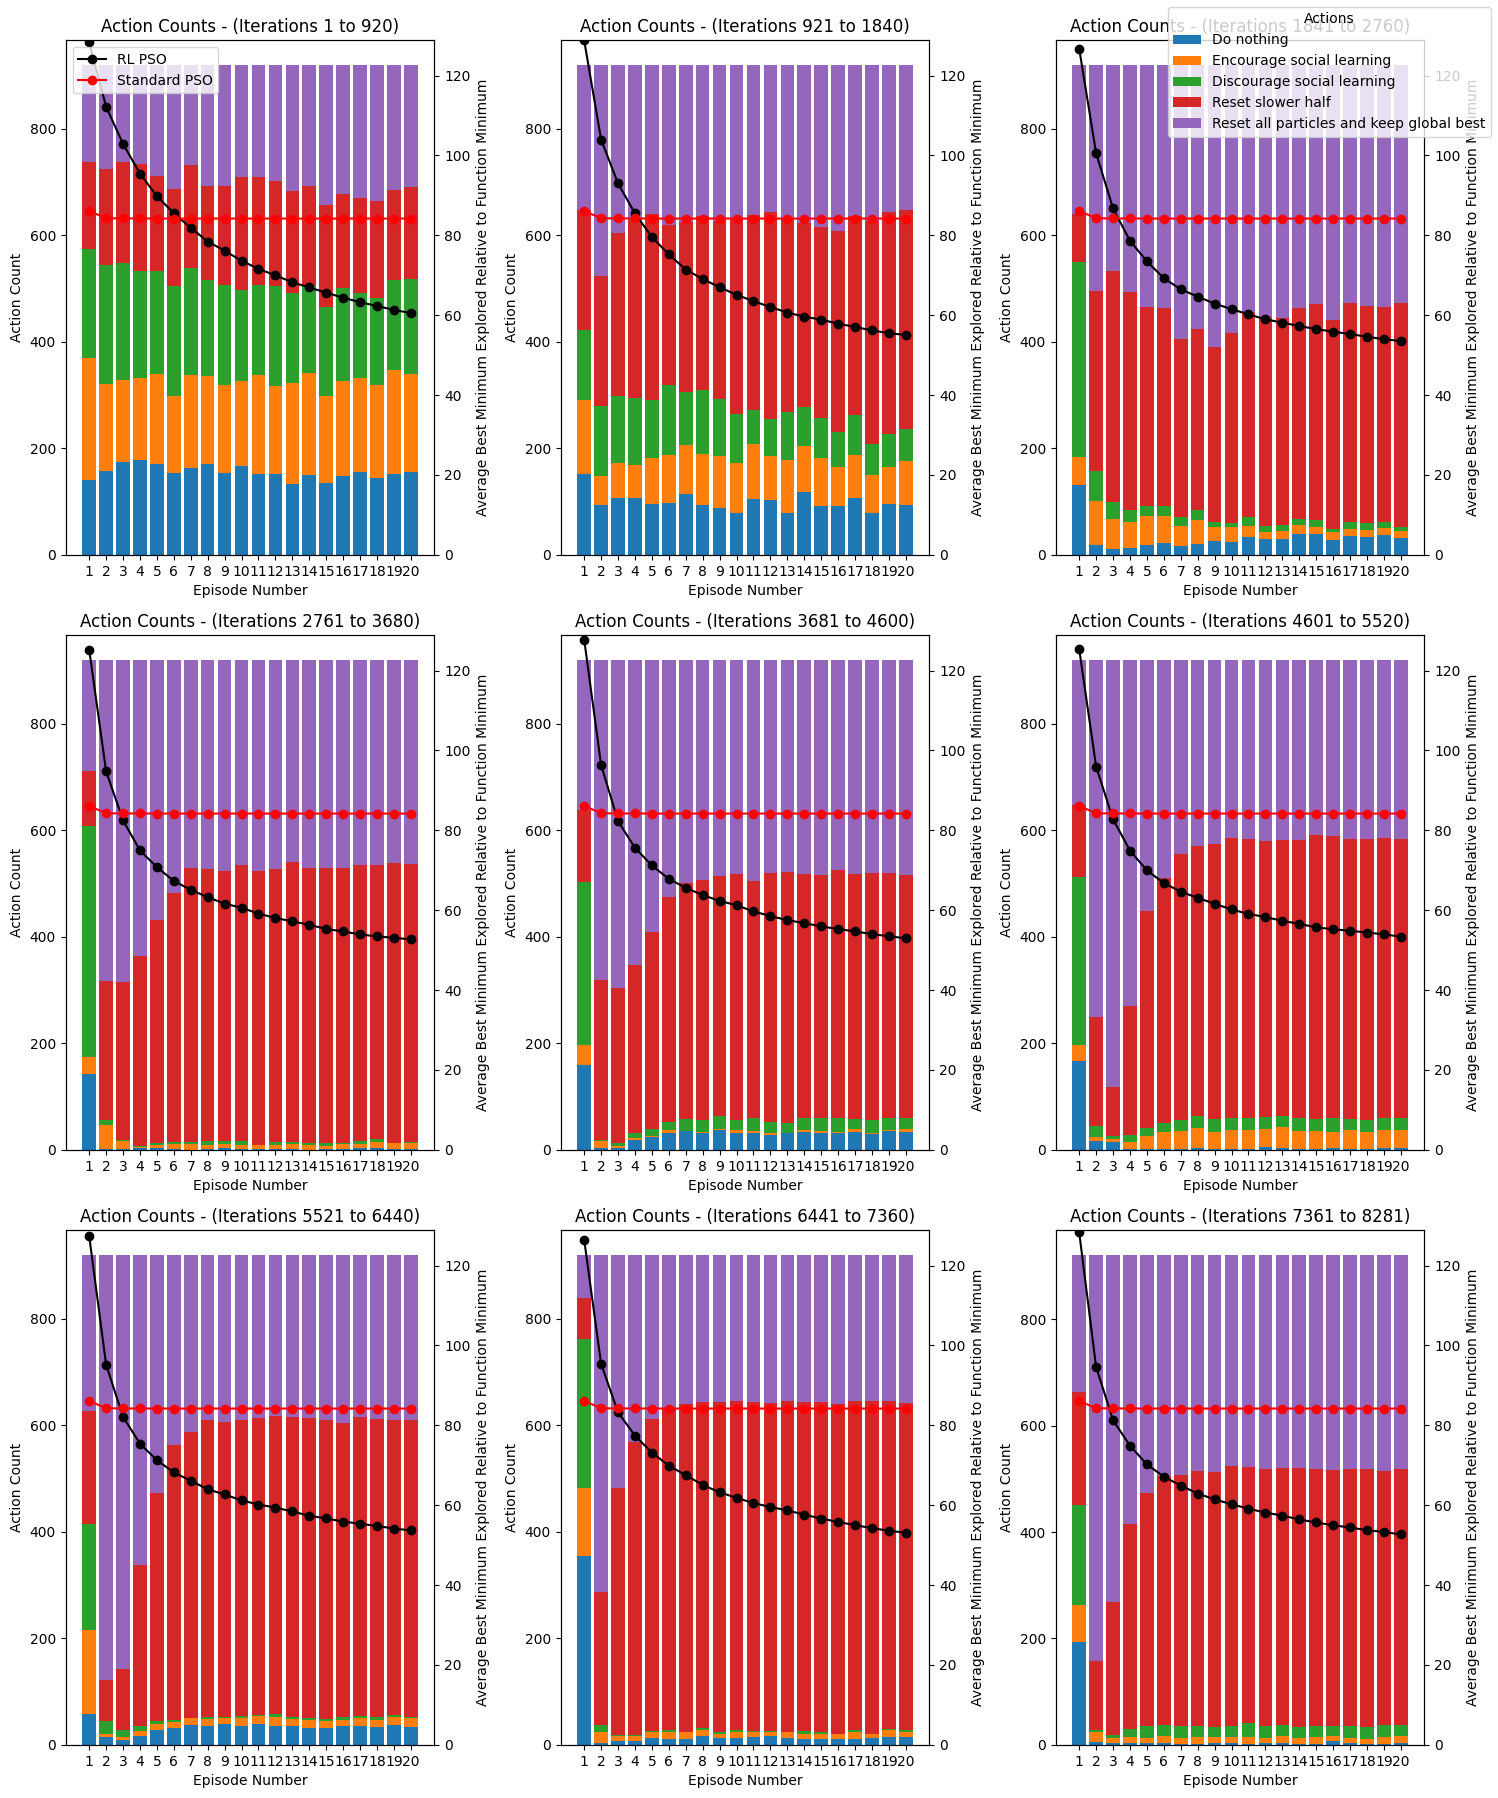
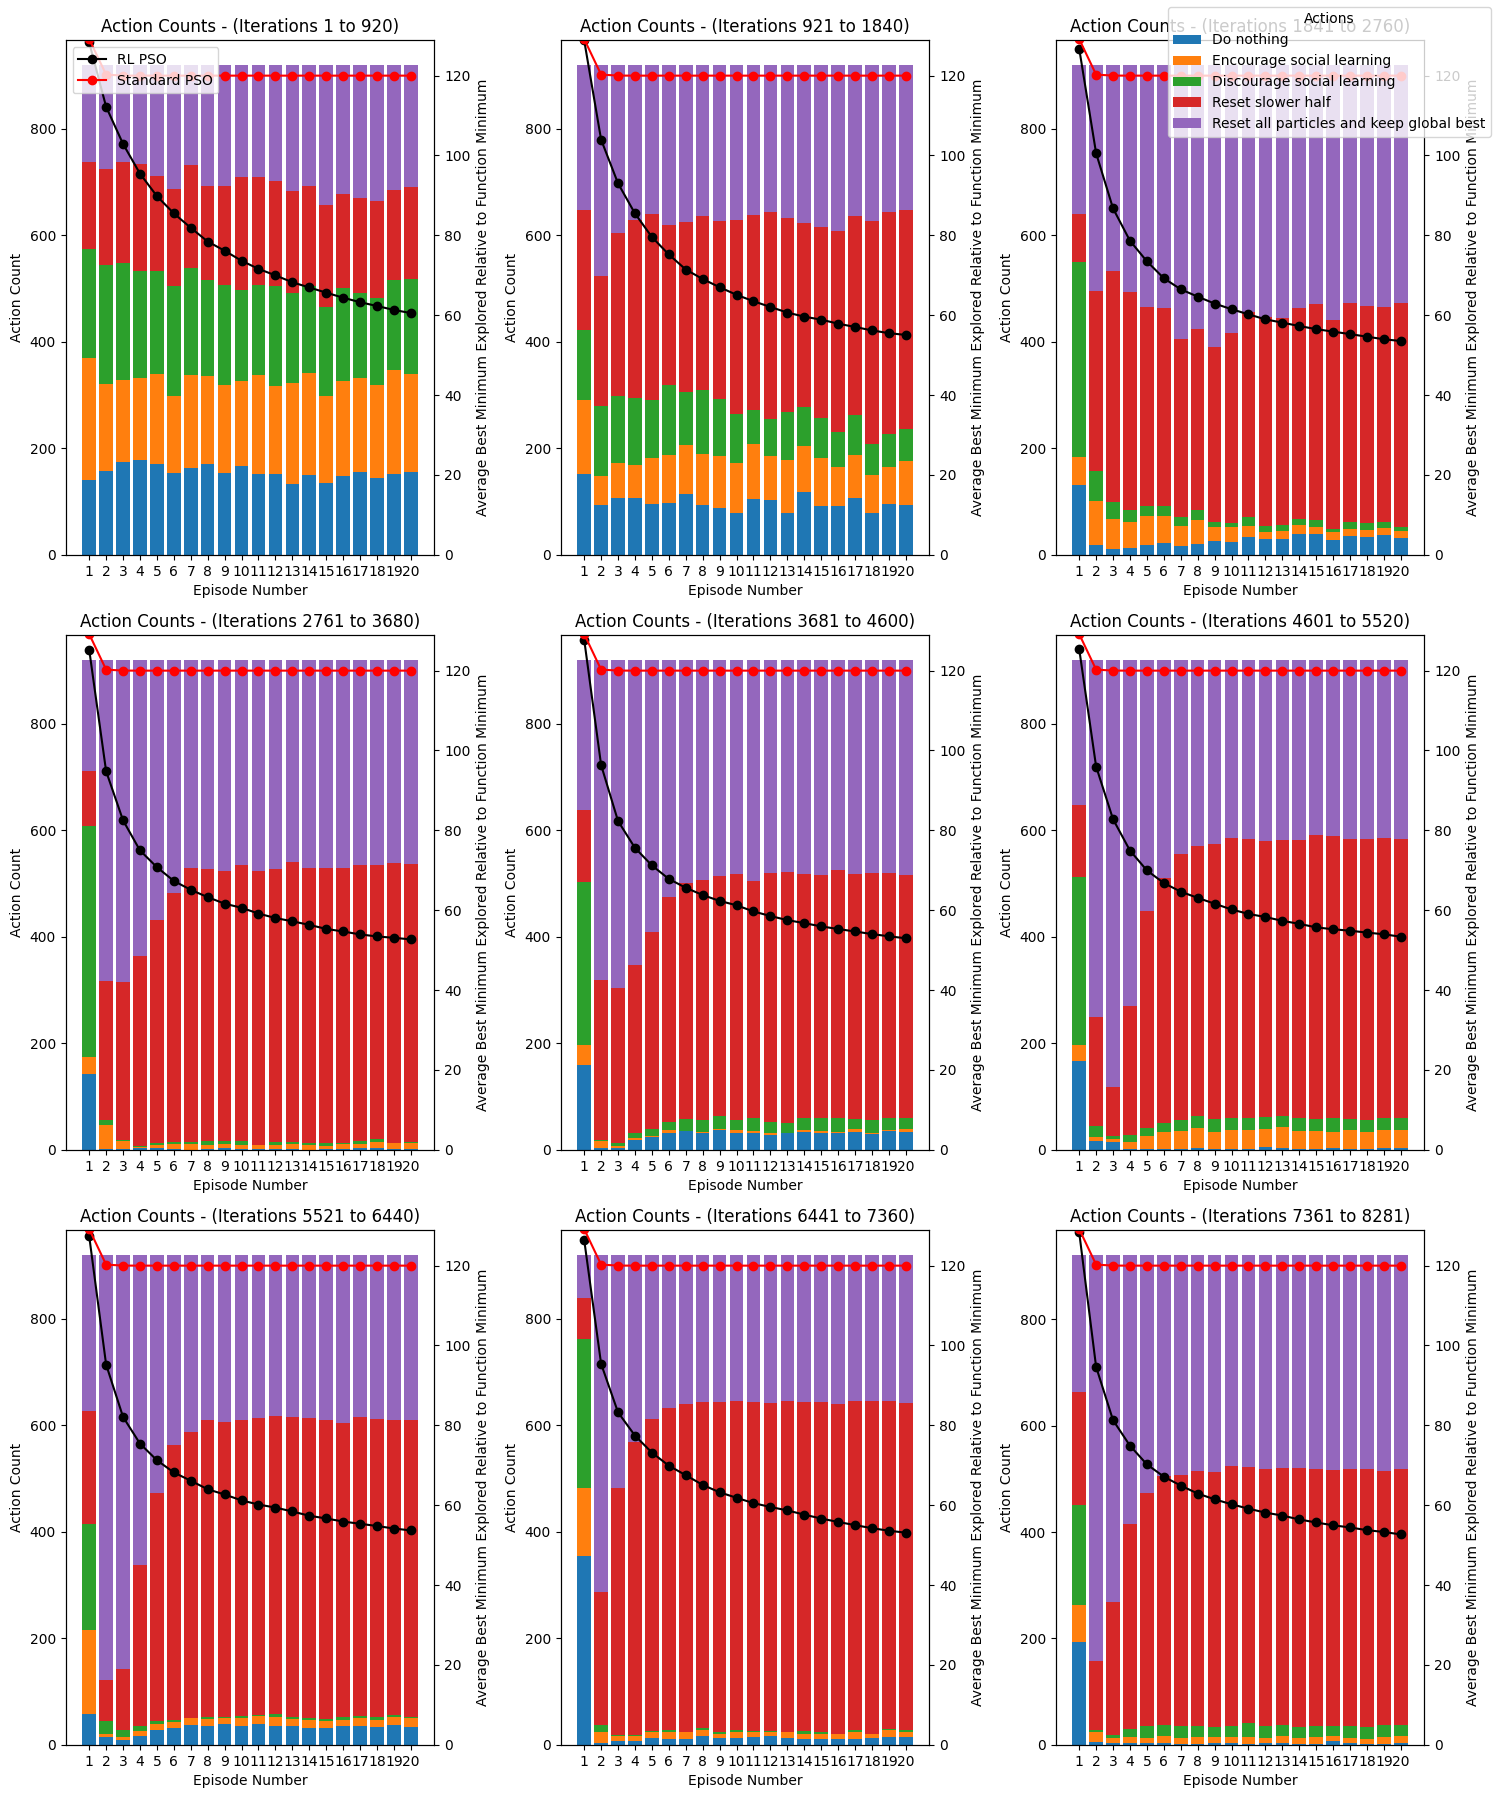
store correct f11

diff --git a/main.py b/main.py
@@ -28,7 +28,7 @@ if __name__ == "__main__":
     parser = argparse.ArgumentParser(description="Run DQN Agent on PSO Algorithm")
     parser.add_argument("--network_type", type=str, default="DRQN",help="Type of the network to build, can either be 'DQN' or 'DRQN'")
     parser.add_argument("--algorithm", type=str, default="PSO", help="The metaheuristic algorithm to use. Currently only pso is supported")
-    parser.add_argument("--func_num", type=int, default=11, help="The function number to optimize. Good functions to evaluate are 6,10,11,14,19")
+    parser.add_argument("--func_num", type=int, default=12, help="The function number to optimize. Good functions to evaluate are 6,10,11,14,19")
     parser.add_argument("--dim", type=int, default=30,help="The number of dimensions in the search space. Default is 30.")
     parser.add_argument("--swarm_size", type=int, default=50, help="The number of particles in the swarm. Default is 50.")
     parser.add_argument("--num_actions", type=int, default=5, help="The number of actions to choose from in the action space. Default is 5.")
